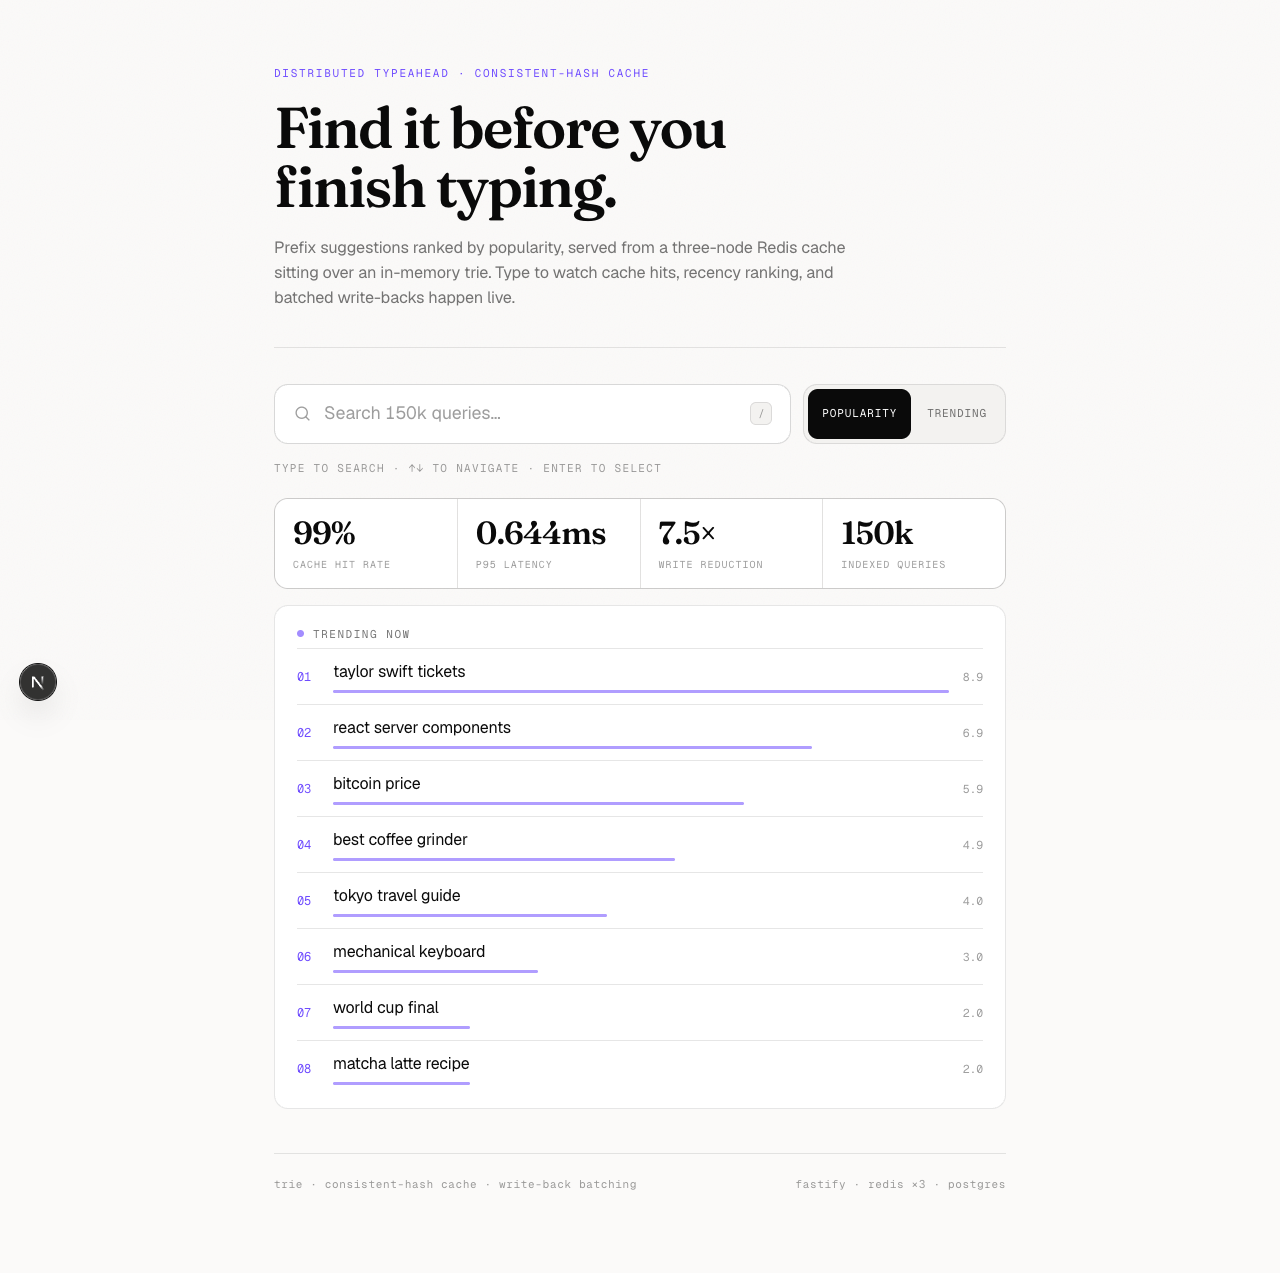
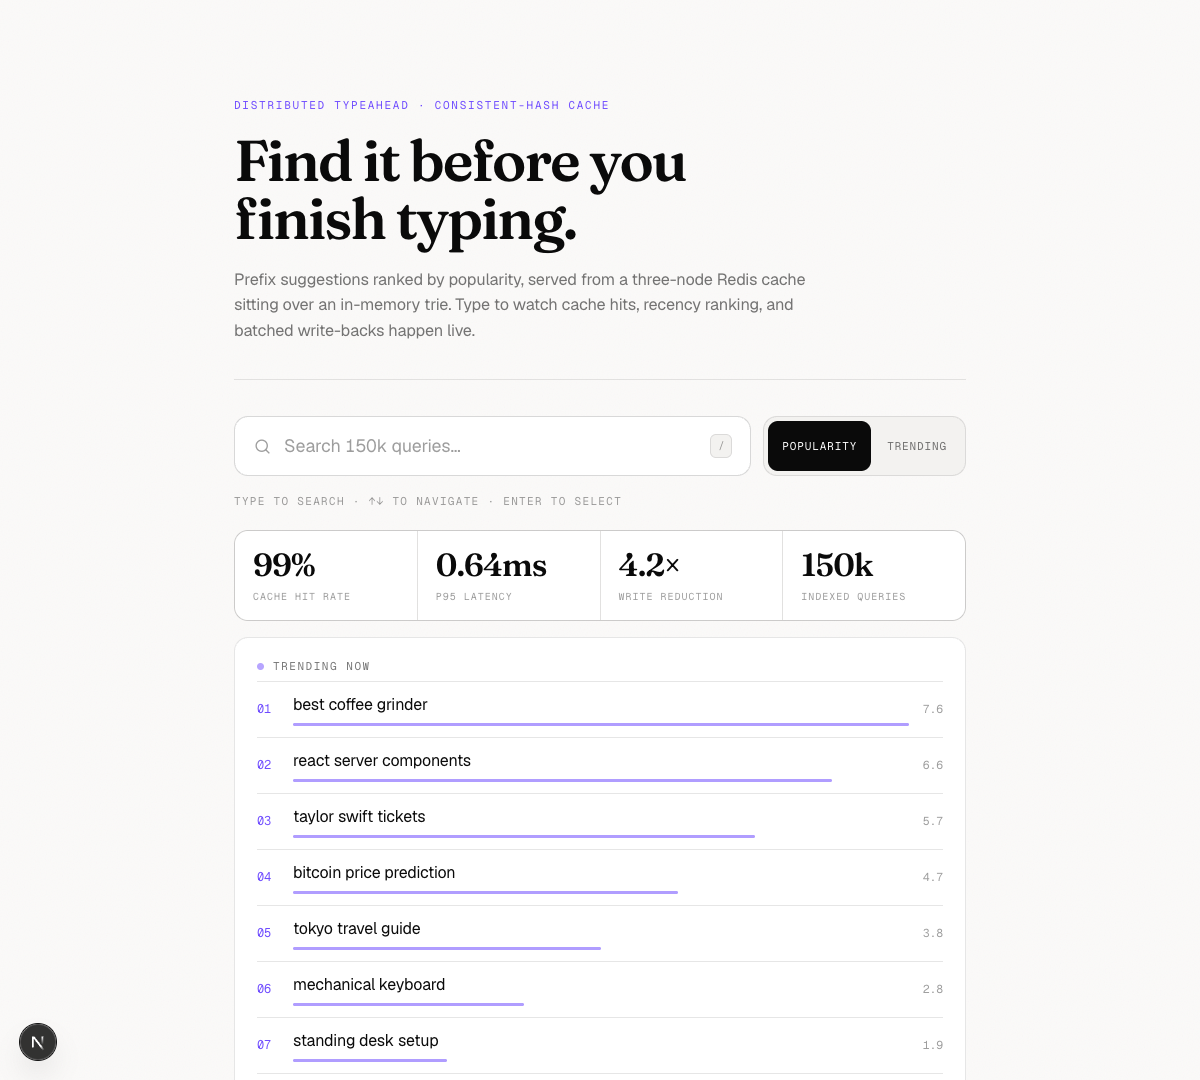
readme: lead with the architecture, add diagrams + demo gif
system + sequence diagrams up top (it's an HLD assignment), rubric mapping, design-decision and perf tables, and a gif of the live ui.

diff --git a/README.md b/README.md
@@ -1,121 +1,217 @@
 # typeahead-search
 
-A search-autocomplete service: prefix suggestions ranked by popularity, served
-from a **distributed cache (consistent hashing)** sitting in front of an
-**in-memory trie**, with submitted searches **written back to Postgres in
-batches** through a durable write-ahead log. Recency-aware ranking and a live
-trending leaderboard on top.
+> Type a few letters, get the most popular searches back in well under a millisecond. Prefix suggestions served from a **distributed cache (consistent hashing)** over an **in-memory trie**, with searches **batched back to Postgres** through a durable write-ahead log — plus recency-aware ranking and a live trending leaderboard.
 
-![overview](docs/screenshots/overview.png)
+![TypeScript](https://img.shields.io/badge/TypeScript-6f4cff?style=flat-square&logo=typescript&logoColor=white)
+![Fastify](https://img.shields.io/badge/Fastify-6f4cff?style=flat-square&logo=fastify&logoColor=white)
+![Redis ×3](https://img.shields.io/badge/Redis%20%C3%973-6f4cff?style=flat-square&logo=redis&logoColor=white)
+![PostgreSQL](https://img.shields.io/badge/PostgreSQL-6f4cff?style=flat-square&logo=postgresql&logoColor=white)
+![Next.js](https://img.shields.io/badge/Next.js-6f4cff?style=flat-square&logo=nextdotjs&logoColor=white)
+![tests](https://img.shields.io/badge/tests-17%20passing-6f4cff?style=flat-square)
+![suggest p95](https://img.shields.io/badge/suggest%20p95-0.65ms-6f4cff?style=flat-square)
+![cache hit](https://img.shields.io/badge/cache%20hit-99%25-6f4cff?style=flat-square)
 
-Design decisions and trade-offs live in **[docs/DESIGN.md](docs/DESIGN.md)**.
-The benchmark numbers are in **[docs/PERFORMANCE.md](docs/PERFORMANCE.md)**.
-
-## Highlights
-
-- **Reads are O(prefix length).** Each trie node caches the top-K completions of
-  its subtree, so a keystroke is a prefix walk + a list read — no subtree scan,
-  and no Postgres on the read path.
-- **Distributed cache, consistent hashing.** Three Redis nodes, a MurmurHash3 ring
-  with virtual nodes, write-around + short jittered TTL. `~99%` hit rate on a Zipf
-  read mix.
-- **Durable batched writes.** `POST /search` appends to a Redis WAL and returns;
-  a drainer coalesces and batch-upserts (`~7.6×` fewer rows, `~1800×` fewer
-  transactions). The WAL is appendonly, so a crash replays instead of losing
-  counts.
-- **Decaying trending leaderboard** in a Redis sorted set — reads never touch the
-  DB.
-- **Live UI** (Next.js) showing per-query cache hit/miss + node, the trending
-  board, and a metrics strip, all updating as you type.
-
-## Stack
-
-| Layer | Tech |
-|---|---|
-| Backend | TypeScript · Fastify |
-| Cache | Redis ×3 (consistent hashing, `volatile-lru`) |
-| Store | PostgreSQL |
-| Frontend | Next.js · React · Tailwind |
+---
 
 ## Architecture
 
+Two workloads share one dataset: **reads** (suggestions, on every keystroke) and
+**writes** (a count bump on every submitted search). Reads dominate ~5–10:1, and
+suggestion data tolerates being slightly stale — so the whole design makes reads
+cheap and keeps writes off the hot path. The four pieces in **purple** are where
+the interesting decisions live.
+
 ```mermaid
-flowchart LR
-  UI["Next.js UI"] -->|"GET /suggest"| API["Fastify server"]
-  UI -->|"POST /search"| API
+flowchart TB
+    UI["Next.js UI<br/>debounced · keyboard-nav"]
 
-  subgraph read["read path (per keystroke)"]
-    API -->|"route by prefix"| RING{{"hash ring"}}
-    RING --> CACHE[("Redis ×3<br/>suggestion cache")]
-    CACHE -- hit --> API
-    CACHE -- miss --> TRIE["in-memory trie<br/>(cached top-K per node)"]
-    TRIE -->|"fill cache"| CACHE
-  end
+    UI -->|keystroke| SUG["GET /suggest"]
+    UI -->|submit| SRCH["POST /search"]
+    TRN["GET /trending"]
 
-  subgraph write["write path (batched, off the hot path)"]
-    API -->|"RPUSH"| WAL[("Redis WAL<br/>(appendonly)")]
-    WAL --> DRAIN["drainer: coalesce"]
-    DRAIN -->|"batch UPSERT"| PG[("PostgreSQL<br/>source of truth")]
-    DRAIN -->|"apply increments"| TRIE
-    DRAIN -->|"ZINCRBY"| TREND[("Redis ZSET<br/>trending")]
-  end
+    subgraph readpath["read path — per keystroke, ~0.6ms p95"]
+      RING{{"consistent-hash ring<br/>murmur3 · 160 vnodes"}}
+      CACHE[("Redis ×3<br/>suggestion cache<br/>cache-aside · jittered TTL")]
+      TRIE["in-memory trie<br/>cached top-K per node"]
+    end
 
-  PG -->|"build on boot"| TRIE
+    SUG --> RING --> CACHE
+    CACHE -. hit .-> SUG
+    CACHE -. miss .-> TRIE
+    TRIE -->|fill cache| CACHE
+
+    subgraph writepath["write path — batched, off the hot path"]
+      WAL[("Redis WAL list<br/>durable · appendonly")]
+      DRAIN["drainer<br/>coalesce → batch"]
+      TREND[("Redis ZSET<br/>decaying trending")]
+    end
+
+    SRCH -->|RPUSH + ack| WAL
+    WAL --> DRAIN
+    DRAIN -->|additive UPSERT| PG[("PostgreSQL<br/>source of truth")]
+    DRAIN -->|apply increments| TRIE
+    DRAIN -->|ZINCRBY| TREND
+    PG -->|build on boot| TRIE
+    TRN --> TREND
+
+    style TRIE fill:#6f4cff,color:#fff,stroke:#5a3de0
+    style RING fill:#6f4cff,color:#fff,stroke:#5a3de0
+    style WAL fill:#6f4cff,color:#fff,stroke:#5a3de0
+    style TREND fill:#6f4cff,color:#fff,stroke:#5a3de0
 ```
+
+### Request lifecycle
+
+```mermaid
+sequenceDiagram
+    autonumber
+    participant U as UI
+    participant A as Fastify
+    participant R as Redis (ring)
+    participant T as Trie
+    participant P as Postgres
+
+    Note over U,P: READ — every keystroke
+    U->>A: GET /suggest?q=pre
+    A->>R: routed GET (key = prefix)
+    alt cache hit
+        R-->>A: top-10
+    else miss
+        A->>T: O(prefix length) lookup
+        T-->>A: top-10
+        A->>R: fill (jittered TTL)
+    end
+    A-->>U: suggestions + hit/miss + owning node
+
+    Note over U,P: WRITE — on submit
+    U->>A: POST /search
+    A->>R: RPUSH to WAL
+    A-->>U: "Searched" (ack, ~instant)
+    loop drainer (on size or interval)
+        R->>R: read batch + coalesce duplicates
+        R->>P: one additive UPSERT
+        R->>T: apply increments (keep index live)
+    end
+```
+
+Full reasoning — every decision and the alternatives I rejected — is in
+**[docs/DESIGN.md](docs/DESIGN.md)**. Benchmark numbers in
+**[docs/PERFORMANCE.md](docs/PERFORMANCE.md)**.
+
+---
+
+## See it
+
+![demo](docs/screenshots/demo.gif)
+
+As you type, each result shows whether it came from **cache or the trie** and
+which node served it; the metrics strip and the decaying **trending** board
+update live.
+
+---
+
+## What it does
+
+| Area | How |
+|---|---|
+| **Prefix suggestions, ranked by popularity** | In-memory trie where every node caches the top-K of its subtree → a keystroke is an `O(prefix length)` walk, **no DFS, no DB**. |
+| **Distributed cache via consistent hashing** | 3 Redis nodes, a MurmurHash3 ring with 160 virtual nodes. Cache-aside reads, write-around + short **jittered TTL** for invalidation, `volatile-lru` eviction. |
+| **Trending (recency-aware)** | A **decaying Redis sorted set** — each flush bumps scores, a sweep ages them by a half-life, reads are one `ZREVRANGE` that never touches Postgres. |
+| **Batch writes** | `POST /search` appends to a **durable Redis WAL** and returns; a drainer coalesces and batch-upserts → **~7.6× fewer rows, ~1800× fewer transactions**, and an un-flushed window survives a crash. |
+| **Observability** | `/metrics` (hit rate, p50/p95/p99, write reduction), `/cache/debug` (per-prefix routing + live HIT/MISS), `/cache/ring` (key distribution). |
+| **UI** | Next.js — debounced suggestions, keyboard nav, prefix highlight, popularity/trending toggle, live cache + metrics readouts. |
+
+---
+
+## Design decisions (the short version)
+
+| Topic | Decision | Rejected |
+|---|---|---|
+| Serving | trie + per-node cached top-K (`O(prefix)`) | DB `LIKE` per keystroke; DFS per read |
+| Routing | consistent hashing, murmur3 + 160 vnodes | round-robin (no locality); `% N` (mass remap); FNV-1a (clustered) |
+| Eviction | `volatile-lru` (only TTL'd keys) | `allkeys-lru` (would evict the WAL + trending) |
+| Invalidation | write-around + short **jittered** TTL | write-through (costly); targeted (complex) |
+| Writes | durable WAL + coalesced batch upsert | in-memory buffer (loses a window on crash) |
+| Trending | decaying Redis sorted set | `ORDER BY recent_score` scan on Postgres |
+| Consistency | eventual / PA-EL | strong (latency + availability cost) |
+
+Each row is unpacked with the "why" in [docs/DESIGN.md](docs/DESIGN.md).
+
+---
+
+## Performance
+
+Single laptop, Docker stack, 150k-query Zipf dataset (`pnpm bench`):
+
+| Metric | Value |
+|---|---|
+| `/suggest` server latency | **p50 0.38ms · p95 0.65ms · p99 0.84ms** |
+| Cache hit rate (Zipf reads) | **99.4%** (7948 / 52) |
+| DB reads on the suggest path | **0** |
+| Write reduction (20k searches) | **7.6× fewer rows · ~1800× fewer transactions** |
+| Ring balance (6k keys / 3 nodes) | 1943 / 1883 / 2174 (within ~15%) |
+| Trie build (150k queries) | ~350ms |
+
+![overview](docs/screenshots/overview.png)
+
+---
 
 ## Run
 
 ```bash
-docker compose up -d          # postgres (5433) + 3 redis (7001-7003)
+docker compose up -d                       # postgres :5433 + 3 redis :7001-7003
 cp .env.example .env
 pnpm install
 
-pnpm --filter @ta/server load     # load ~150k synthetic queries (no download)
-pnpm --filter @ta/server start    # backend on http://localhost:8080
-pnpm --filter @ta/web dev         # UI on http://localhost:3000
+pnpm --filter @ta/server load              # ~150k synthetic Zipf queries (no download)
+pnpm --filter @ta/server start             # backend → http://localhost:8080
+pnpm --filter @ta/web dev                  # UI      → http://localhost:3000
 ```
-
-Then open <http://localhost:3000> and start typing.
-
-![suggestions](docs/screenshots/suggestions.png)
-
-## Dataset
-
-`pnpm --filter @ta/server load` generates ~150k queries with **Zipf-distributed
-counts** (a few queries dominate, like real search traffic — which is what makes
-the cache hit rate high). No download needed.
-
-To use a **real query log** instead, point the loader at a CSV/TSV; it derives
-counts by aggregation (`COUNT(*)` per normalized query):
 
 ```bash
-pnpm --filter @ta/server load --file path/to/queries.csv --top 1000000 --min-count 2
+pnpm --filter @ta/server bench             # the performance report above
+pnpm --filter @ta/server test              # trie · ranking · hash-ring · metrics tests
 ```
+
+### Dataset
+
+`load` generates ~150k queries with **Zipf-distributed counts** (a few queries
+dominate, like real traffic — which is what makes the cache hit rate high). To
+use a **real query log** instead, the loader derives counts by aggregation:
+
+```bash
+pnpm --filter @ta/server load --file queries.csv --top 1000000 --min-count 2
+```
+
+---
 
 ## API
 
 | Method | Endpoint | Description |
 |---|---|---|
-| GET | `/suggest?q=<prefix>&mode=count\|recency` | Top-10 prefix matches. `count` = all-time, `recency` = popularity + decay. |
+| GET | `/suggest?q=<prefix>&mode=count\|recency` | Top-10 matches. `count` = all-time, `recency` = popularity + decay. |
 | POST | `/search` `{"query":"..."}` | Acks `Searched`; buffers the count (write-back). |
 | GET | `/trending?n=10` | Decaying trending leaderboard. |
 | GET | `/cache/debug?prefix=<p>` | Which node owns the prefix + live HIT/MISS. |
 | GET | `/cache/ring?sample=N` | Key distribution across the nodes. |
-| GET | `/metrics` | Hit rate, DB write counts + reduction, p50/p95/p99 latency. |
+| GET | `/metrics` | Hit rate, write reduction, p50/p95/p99 latency. |
 
-```bash
-pnpm --filter @ta/server bench    # drive load and print the performance report
-pnpm --filter @ta/server test     # trie / ranking / hash-ring / metrics unit tests
-```
+---
 
-## Layout
+## Project layout
 
 ```
 apps/
-  server/   Fastify backend
-    src/lib/    trie · hashRing · cache · writeBuffer · trending · store · ranking · metrics
-    src/routes/ suggest · search · trending · cache · metrics
-    scripts/    loadDataset · benchmark
-  web/      Next.js UI
-docs/       DESIGN.md · PERFORMANCE.md
+  server/                       Fastify backend
+    src/lib/                    trie · hashRing · cache · writeBuffer · trending
+                                · store · ranking · metrics
+    src/routes/                 suggest · search · trending · cache · metrics
+    scripts/                    loadDataset · benchmark
+  web/                          Next.js UI
+docs/                           DESIGN.md · PERFORMANCE.md
+docker-compose.yml              postgres + 3 redis (volatile-lru, appendonly)
 ```
+
+Unit tests cover the trie (count + recency + incremental updates), the hash ring
+(determinism, balance, minimal remap on node removal), ranking decay, and the
+latency percentiles: `pnpm --filter @ta/server test`.